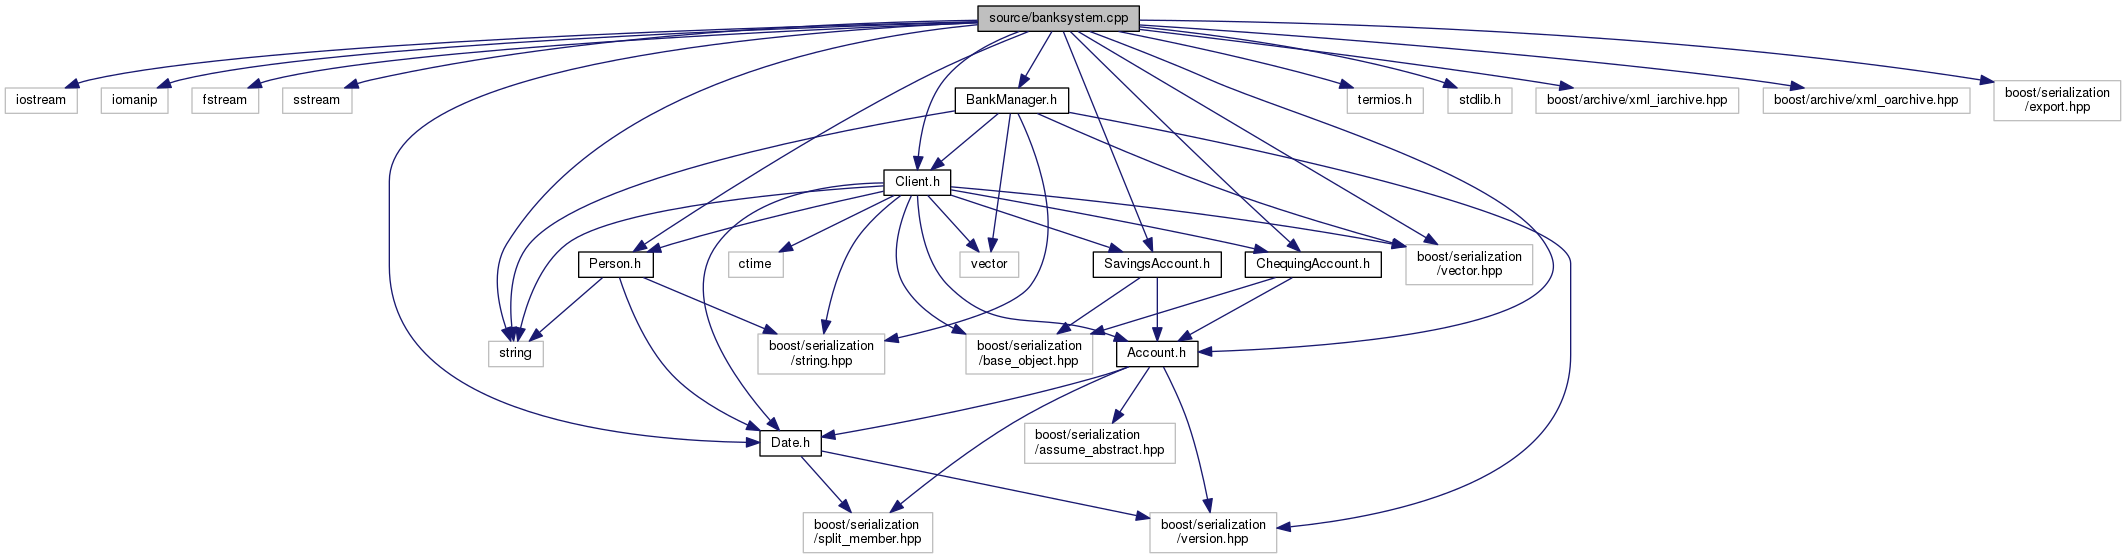
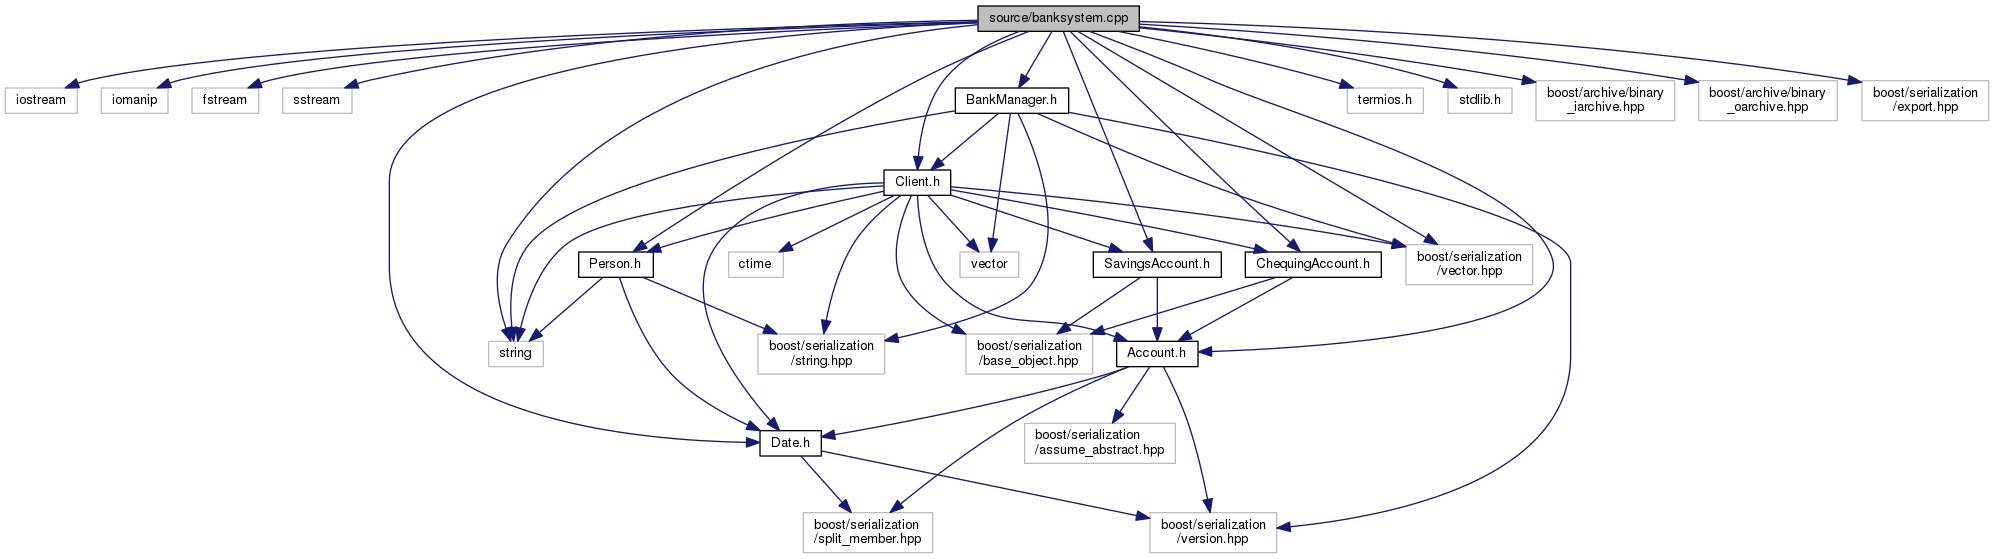
small update to docs/

diff --git a/docs/banksystem_8cpp.html b/docs/banksystem_8cpp.html
@@ -80,8 +80,8 @@ $(function() {
 <code>#include &lt;string&gt;</code><br />
 <code>#include &lt;termios.h&gt;</code><br />
 <code>#include &lt;stdlib.h&gt;</code><br />
-<code>#include &lt;boost/archive/xml_iarchive.hpp&gt;</code><br />
-<code>#include &lt;boost/archive/xml_oarchive.hpp&gt;</code><br />
+<code>#include &lt;boost/archive/binary_iarchive.hpp&gt;</code><br />
+<code>#include &lt;boost/archive/binary_oarchive.hpp&gt;</code><br />
 <code>#include &lt;boost/serialization/export.hpp&gt;</code><br />
 <code>#include &lt;boost/serialization/vector.hpp&gt;</code><br />
 <code>#include &quot;<a class="el" href="Date_8h_source.html">Date.h</a>&quot;</code><br />
@@ -104,9 +104,9 @@ Include dependency graph for banksystem.cpp:</div>
 <area shape="rect" title=" " alt="" coords="489,341,543,367"/>
 <area shape="rect" title=" " alt="" coords="1347,87,1423,114"/>
 <area shape="rect" title=" " alt="" coords="1448,87,1512,114"/>
-<area shape="rect" title=" " alt="" coords="1536,87,1739,114"/>
-<area shape="rect" title=" " alt="" coords="1763,87,1970,114"/>
-<area shape="rect" title=" " alt="" coords="1994,80,2121,121"/>
+<area shape="rect" title=" " alt="" coords="1536,80,1675,121"/>
+<area shape="rect" title=" " alt="" coords="1699,80,1837,121"/>
+<area shape="rect" title=" " alt="" coords="1862,80,1989,121"/>
 <area shape="rect" title=" " alt="" coords="1406,244,1533,285"/>
 <area shape="rect" href="Date_8h.html" title=" " alt="" coords="760,430,821,457"/>
 <area shape="rect" href="Person_8h.html" title=" " alt="" coords="579,251,653,278"/>
@@ -164,7 +164,7 @@ Functions</h2></td></tr>
 Variables</h2></td></tr>
 <tr class="memitem:aa7344907c035f5ff79406934d1254754"><td class="memItemLeft" align="right" valign="top"><a class="el" href="classBankManager.html">BankManager</a>&#160;</td><td class="memItemRight" valign="bottom"><a class="el" href="banksystem_8cpp.html#aa7344907c035f5ff79406934d1254754">BM</a></td></tr>
 <tr class="separator:aa7344907c035f5ff79406934d1254754"><td class="memSeparator" colspan="2">&#160;</td></tr>
-<tr class="memitem:ae481aa99ddc0fb8a143ff9c561df47a9"><td class="memItemLeft" align="right" valign="top">const string&#160;</td><td class="memItemRight" valign="bottom"><a class="el" href="banksystem_8cpp.html#ae481aa99ddc0fb8a143ff9c561df47a9">filename</a> = &quot;bank.xml&quot;</td></tr>
+<tr class="memitem:ae481aa99ddc0fb8a143ff9c561df47a9"><td class="memItemLeft" align="right" valign="top">const string&#160;</td><td class="memItemRight" valign="bottom"><a class="el" href="banksystem_8cpp.html#ae481aa99ddc0fb8a143ff9c561df47a9">filename</a> = &quot;bank.dat&quot;</td></tr>
 <tr class="separator:ae481aa99ddc0fb8a143ff9c561df47a9"><td class="memSeparator" colspan="2">&#160;</td></tr>
 </table>
 <h2 class="groupheader">Function Documentation</h2>
@@ -483,7 +483,7 @@ Variables</h2></td></tr>
 <div class="memproto">
       <table class="memname">
         <tr>
-          <td class="memname">const string filename = &quot;bank.xml&quot;</td>
+          <td class="memname">const string filename = &quot;bank.dat&quot;</td>
         </tr>
       </table>
 </div><div class="memdoc">
